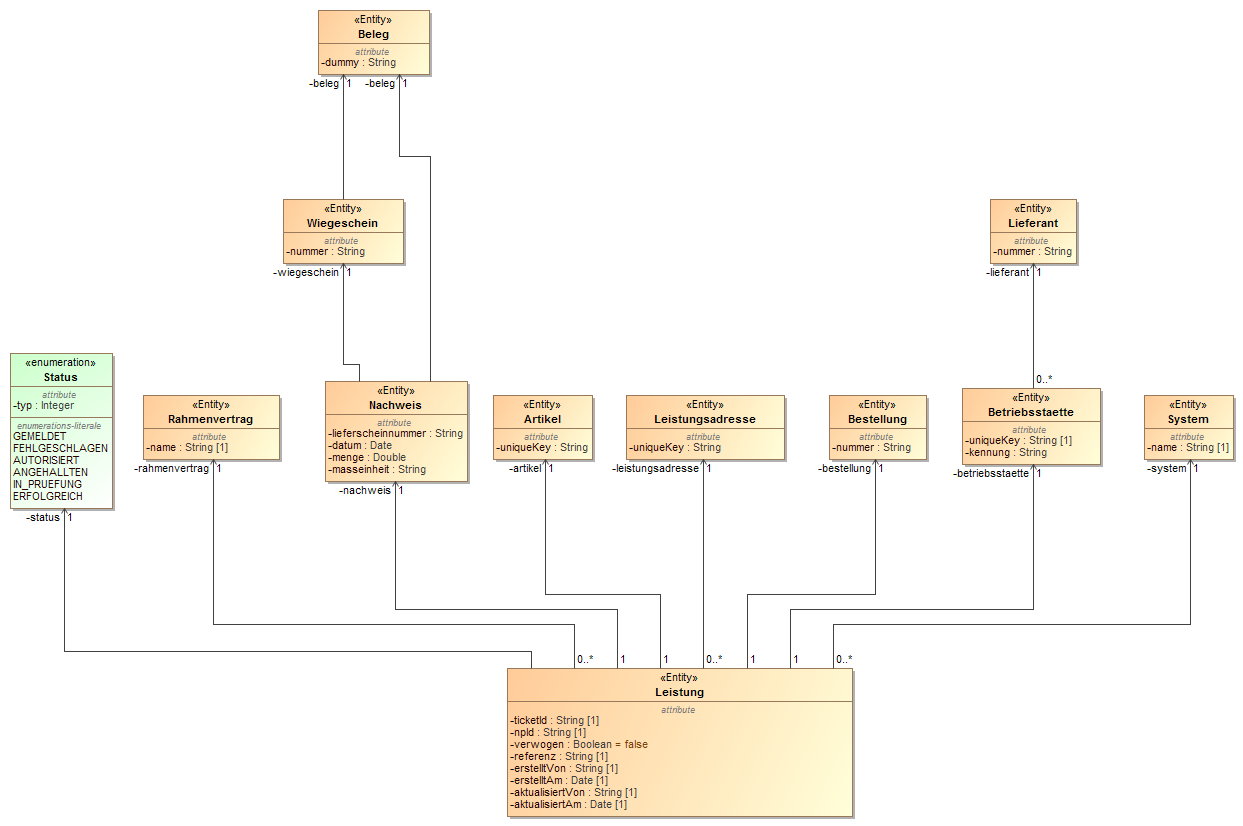
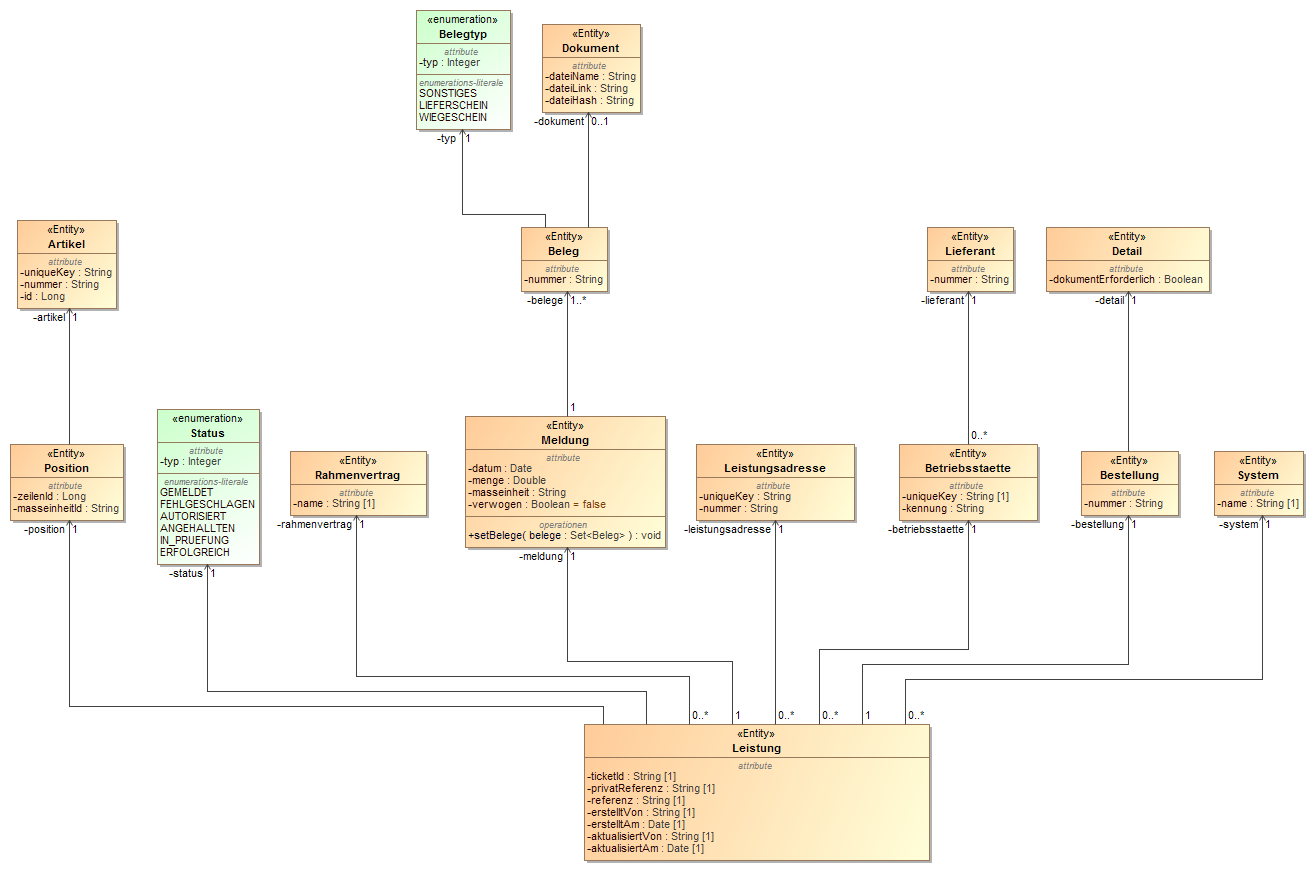
Bestellung- und Leistungs-Domain-Modell angepasst

diff --git a/api.html b/api.html
@@ -231,7 +231,7 @@
 																		&nbsp;&nbsp;
 																	</code>
 																	<code class="java string">
-																  		"status": "enum",
+																  		"status": "enum"
 																  	</code>
 																</div>
 																<div class="line number4 index3 alt1">
@@ -239,7 +239,23 @@
 																		&nbsp;&nbsp;
 																	</code>
 																	<code class="java string">
-																  		"mitteilung": "string",
+																  		"detail": {
+																  	</code>
+																</div>
+																<div class="line number4 index3 alt1">
+																	<code class="java spaces">
+																		&nbsp;&nbsp;&nbsp;&nbsp;
+																	</code>
+																	<code class="java string">
+																  		"mitteilung": "string"
+																  	</code>
+																</div>
+																<div class="line number4 index3 alt1">
+																	<code class="java spaces">
+																		&nbsp;&nbsp;
+																	</code>
+																	<code class="java string">
+																  		},
 																  	</code>
 																</div>
 																<div class="line number4 index3 alt1">
@@ -640,15 +656,7 @@
 																		&nbsp;&nbsp;
 																	</code>
 																	<code class="java string">
-																  		"npId": "string",
-																  	</code>
-																</div>
-																<div class="line number4 index3 alt1">
-																	<code class="java spaces">
-																		&nbsp;&nbsp;
-																	</code>
-																	<code class="java string">
-																  		"verwogen": "boolean",
+																  		"privatReferenz": "string",
 																  	</code>
 																</div>
 																<div class="line number4 index3 alt1">
@@ -847,16 +855,8 @@
 																		&nbsp;&nbsp;
 																	</code>
 																	<code class="java string">
-																  		"nachweis": {
+																  		"meldung": {
 																  	</code>
-																</div>
-																<div class="line number4 index3 alt1">
-																	<code class="java spaces">
-																		&nbsp;&nbsp;&nbsp;&nbsp;
-																	</code>
-																	<code class="java string">
-																    	"lieferscheinnummer": "string",
-																    </code>
 																</div>
 																<div class="line number4 index3 alt1">
 																	<code class="java spaces">
@@ -887,7 +887,15 @@
 																		&nbsp;&nbsp;&nbsp;&nbsp;
 																	</code>
 																	<code class="java string">
-																    	"beleg": {
+																  		"verwogen": "boolean",
+																  	</code>
+																</div>
+																<div class="line number4 index3 alt1">
+																	<code class="java spaces">
+																		&nbsp;&nbsp;&nbsp;&nbsp;
+																	</code>
+																	<code class="java string">
+																    	"beleg": [
 																    </code>
 																</div>
 																<div class="line number4 index3 alt1">
@@ -895,31 +903,7 @@
 																		&nbsp;&nbsp;&nbsp;&nbsp;&nbsp;&nbsp;
 																	</code>
 																	<code class="java string">
-																    	"dummy": "string"
-																    </code>
-																</div>
-																<div class="line number4 index3 alt1">
-																	<code class="java spaces">
-																		&nbsp;&nbsp;&nbsp;&nbsp;
-																	</code>
-																	<code class="java string">
-																    	},
-																    </code>
-																</div>
-																<div class="line number4 index3 alt1">
-																	<code class="java spaces">
-																		&nbsp;&nbsp;&nbsp;&nbsp;
-																	</code>
-																	<code class="java string">
-																    	"wiegeschein": {
-																    </code>
-																</div>
-																<div class="line number4 index3 alt1">
-																	<code class="java spaces">
-																		&nbsp;&nbsp;&nbsp;&nbsp;&nbsp;&nbsp;
-																	</code>
-																	<code class="java string">
-																    	"beleg": {
+																    	{
 																    </code>
 																</div>
 																<div class="line number4 index3 alt1">
@@ -927,7 +911,15 @@
 																		&nbsp;&nbsp;&nbsp;&nbsp;&nbsp;&nbsp;&nbsp;&nbsp;
 																	</code>
 																	<code class="java string">
-																    	"dummy": "string"
+																    	"nummer": "string",
+																    </code>
+																</div>
+																<div class="line number4 index3 alt1">
+																	<code class="java spaces">
+																		&nbsp;&nbsp;&nbsp;&nbsp;&nbsp;&nbsp;&nbsp;&nbsp;
+																	</code>
+																	<code class="java string">
+																    	"typ": "enum"
 																    </code>
 																</div>
 																<div class="line number4 index3 alt1">
@@ -935,15 +927,7 @@
 																		&nbsp;&nbsp;&nbsp;&nbsp;&nbsp;&nbsp;
 																	</code>
 																	<code class="java string">
-																    	},
-																    </code>
-																</div>
-																<div class="line number4 index3 alt1">
-																	<code class="java spaces">
-																		&nbsp;&nbsp;&nbsp;&nbsp;&nbsp;&nbsp;
-																	</code>
-																	<code class="java string">
-																    	"nummer": "string"
+																    	}
 																    </code>
 																</div>
 																<div class="line number4 index3 alt1">
@@ -951,7 +935,7 @@
 																		&nbsp;&nbsp;&nbsp;&nbsp;
 																	</code>
 																	<code class="java string">
-																    	}
+																    	]
 																    </code>
 																</div>
 																<div class="line number4 index3 alt1">
@@ -980,14 +964,14 @@
 							<p>Die TicketId entspricht der <code>ticketId</code> der zugehörigen Bestellung.</p>
 							<p>Die Refernz kann gesetzt werden, muss es aber nicht.</p>
 							<p>Verwogen muss auf true gesetzt sein, wenn ein Wiegebeleg mitgeliefert wurde. Ist es auf false gesetzt oder gar nicht angegeben, wurde entweder kein Beleg mitgeliefert, oder ein Lieferschein als Beleg.</p>
-							<p>Das Datum des Leistungsnachweises enthält Datum und Uhrzeit der tatsächlichen Leistungserbringung. Die Notation entspricht dem ISO 8601-Format: yyyy-MM-dd'T'hh:mm:ssZ</p>
-							<p>Die Menge des Leistungsnachweises ist immer eine Fließkommazahl. Anstelle eines Kommas wird ein Punkt verwendet.</p>
+							<p>Das Datum der Leistungsmeldung enthält Datum und Uhrzeit der tatsächlichen Leistungserbringung. Die Notation entspricht dem ISO 8601-Format: yyyy-MM-dd'T'hh:mm:ssZ</p>
+							<p>Die Menge des Leistungsmeldung ist immer eine Fließkommazahl. Anstelle eines Kommas wird ein Punkt verwendet.</p>
 							<p>Der Rest der Werte wird automatisch im Service gesetzt.</p>
 							<h5>Response</h5>
 							<p>
 								Die Response besteht aus einem der Statuscodes:
 								<ul>
-									<li>200 - Ok</li>
+									<li>201 - Created</li>
 									<li>400 - Bad Request</li>
 									<li>401 - Unauthorized</li>
 									<li>403 - Forbidden</li>
